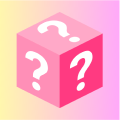
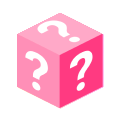
modify random button, random hover

diff --git a/source/Form.cpp b/source/Form.cpp
@@ -122,7 +122,7 @@ Form::Form(const int& index, FormSetting f_setting, const Vector2& window_size) 
 
     random_create.setPosition(270, 5);
     random_create.setSize(30, 30);
-    random_create.setButtonStage(0, form_setting.Rand,form_setting.Rand);
+    random_create.setButtonStage(0, form_setting.Rand,form_setting.Rand_hovered);
 
     m_drop_box.setVisible(false);
     m_drop_box.setPosition(create_textbox.getPosition().x,create_textbox.getPosition().y);
@@ -137,7 +137,7 @@ Form::Form(const int& index, FormSetting f_setting, const Vector2& window_size) 
 
     random_insert.setPosition(155, 5);
     random_insert.setSize(40, 40);
-    random_insert.setButtonStage(0, form_setting.Rand, form_setting.Rand);
+    random_insert.setButtonStage(0, form_setting.Rand, form_setting.Rand_hovered);
 
     insert_textbox.setPosition(5, 5);
     insert_textbox.setSize(145,40);
@@ -157,7 +157,7 @@ Form::Form(const int& index, FormSetting f_setting, const Vector2& window_size) 
 
     random_update_choice.setPosition(305, 5);
     random_update_choice.setSize(40, 40);
-    random_update_choice.setButtonStage(0, form_setting.Rand, form_setting.Rand);
+    random_update_choice.setButtonStage(0, form_setting.Rand, form_setting.Rand_hovered);
 
     update_new_value_label.setPosition(5, 50);
     update_new_value_label.setSize(150, 40);
@@ -170,7 +170,7 @@ Form::Form(const int& index, FormSetting f_setting, const Vector2& window_size) 
     
     random_update_value.setPosition(305, 50);
     random_update_value.setSize(40, 40);
-    random_update_value.setButtonStage(0, form_setting.Rand, form_setting.Rand);
+    random_update_value.setButtonStage(0, form_setting.Rand, form_setting.Rand_hovered);
 
     update_button.setPosition(5, 95);
     update_button.setSize(340,40);
@@ -185,7 +185,7 @@ Form::Form(const int& index, FormSetting f_setting, const Vector2& window_size) 
 
     random_search.setPosition(155, 5);
     random_search.setSize(40, 40);
-    random_search.setButtonStage(0, form_setting.Rand, form_setting.Rand);
+    random_search.setButtonStage(0, form_setting.Rand, form_setting.Rand_hovered);
 
     search_button.setPosition(200, 5);
     search_button.setSize(145,40);
@@ -200,7 +200,7 @@ Form::Form(const int& index, FormSetting f_setting, const Vector2& window_size) 
 
     random_remove.setPosition(155, 5);
     random_remove.setSize(40, 40);
-    random_remove.setButtonStage(0, form_setting.Rand, form_setting.Rand);
+    random_remove.setButtonStage(0, form_setting.Rand, form_setting.Rand_hovered);
     
     remove_textbox.setPosition(5, 5);
     remove_textbox.setSize(145, 40);

diff --git a/source/Graph.design.cpp b/source/Graph.design.cpp
@@ -135,7 +135,7 @@ Graph::Graph(const int& index, FormSetting f_setting, const Vector2& window_size
 
     random_Dijkstra_button.setPosition(110, 5);
     random_Dijkstra_button.setSize(40, 40);
-    random_Dijkstra_button.setButtonStage(0, form_setting.Rand, form_setting.Rand);
+    random_Dijkstra_button.setButtonStage(0, form_setting.Rand, form_setting.Rand_hovered);
 
     Dijkstra_button.setPosition(155, 5);
     Dijkstra_button.setSize(100, 40);
@@ -146,7 +146,7 @@ Graph::Graph(const int& index, FormSetting f_setting, const Vector2& window_size
 
     random_prim_button.setPosition(110, 5);
     random_prim_button.setSize(40, 40);
-    random_prim_button.setButtonStage(0, form_setting.Rand, form_setting.Rand);
+    random_prim_button.setButtonStage(0, form_setting.Rand, form_setting.Rand_hovered);
 
     prim_button.setPosition(155, 5);
     prim_button.setSize(100, 40);
@@ -157,7 +157,7 @@ Graph::Graph(const int& index, FormSetting f_setting, const Vector2& window_size
 
     random_kruskal_button.setPosition(110, 5);
     random_kruskal_button.setSize(40, 40);
-    random_kruskal_button.setButtonStage(0, form_setting.Rand, form_setting.Rand);
+    random_kruskal_button.setButtonStage(0, form_setting.Rand, form_setting.Rand_hovered);
 
     kruskal_button.setPosition(155, 5);
     kruskal_button.setSize(100, 40);
@@ -245,7 +245,7 @@ Graph::Graph(const int& index, FormSetting f_setting, const Vector2& window_size
 
     random_vertex_button.setPosition(110, 40);
     random_vertex_button.setSize(30, 30);
-    random_vertex_button.setButtonStage(0, form_setting.Rand, form_setting.Rand);
+    random_vertex_button.setButtonStage(0, form_setting.Rand, form_setting.Rand_hovered);
 
     edge_label.setText("E: ");
     edge_label.setPosition(160, 35);
@@ -257,7 +257,7 @@ Graph::Graph(const int& index, FormSetting f_setting, const Vector2& window_size
 
     random_edge_button.setPosition(265, 40);
     random_edge_button.setSize(30, 30);
-    random_edge_button.setButtonStage(0, form_setting.Rand, form_setting.Rand);
+    random_edge_button.setButtonStage(0, form_setting.Rand, form_setting.Rand_hovered);
     
     create_textbox.setPosition(5, 80);
     create_button.setPosition(5, 190);

diff --git a/source/SettingPackage.cpp b/source/SettingPackage.cpp
@@ -48,6 +48,7 @@ FormSetting LightTheme = {
     source"/asset/images/dark/double-arrow-left-hoverd.png",
     source"/asset/Icon/Light.png",
     source"/asset/images/Rand.png",
+    source"/asset/images/Rand_hovered.png",
     source"/asset/images/dark/TitleMenu.png",
     source"/asset/Icon/pepicons-pencil--pen.png",
     source"/asset/Icon/pepicons-pencil--pen-circle-filled.png",
@@ -108,6 +109,7 @@ FormSetting DarkTheme = {
     source"/asset/images/double-arrow-left-hoverd.png",
     source"/asset/Icon/Dark.png",
     source"/asset/images/Rand.png",
+    source"/asset/images/Rand_hovered.png",
     source"/asset/images/TitleMenu.png",
     source"/asset/Icon/pepicons-pencil--pen.png",
     source"/asset/Icon/pepicons-pencil--pen-circle-filled.png",

diff --git a/source/LinearHashTable.cpp b/source/LinearHashTable.cpp
@@ -59,7 +59,7 @@ HT::HashTable::HashTable(const int& index, FormSetting f_setting, const Vector2&
     size_label.setText("Size: ");
     size_label.setAlignText(Label::Left);
 
-    random_size_button.setButtonStage(0, form_setting.Rand, form_setting.Rand);
+    random_size_button.setButtonStage(0, form_setting.Rand, form_setting.Rand_hovered);
     random_size_button.setPosition(275, 50);
     random_size_button.setSize(30, 30);
 

diff --git a/include/SettingPackage.h b/include/SettingPackage.h
@@ -59,6 +59,7 @@ public:
     const char* DoubleArrowLeft_Hovered;
     const char* sun;
     const char* Rand;
+    const char* Rand_hovered;
     const char* TitleMenu;
     const char* match_cursor_icon;
     const char* match_filled_icon;
